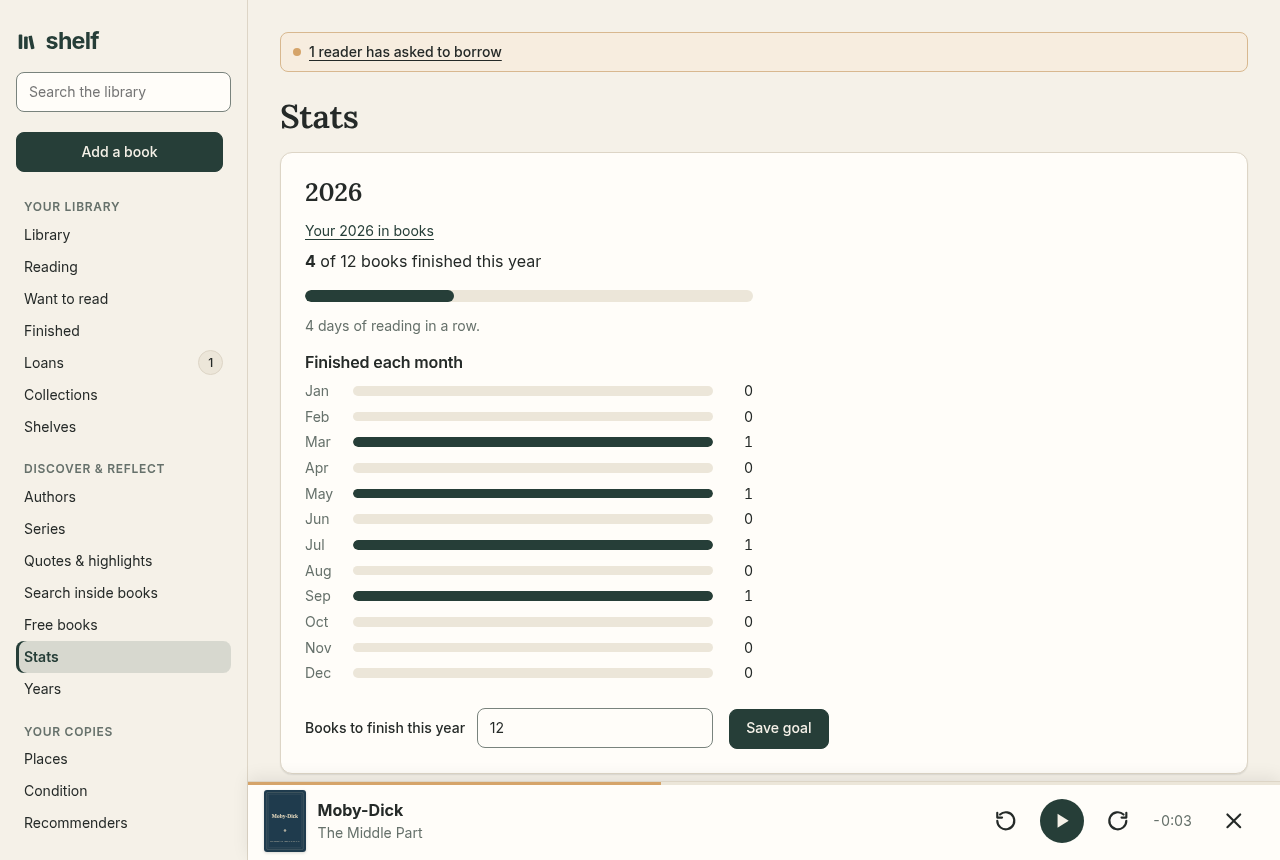
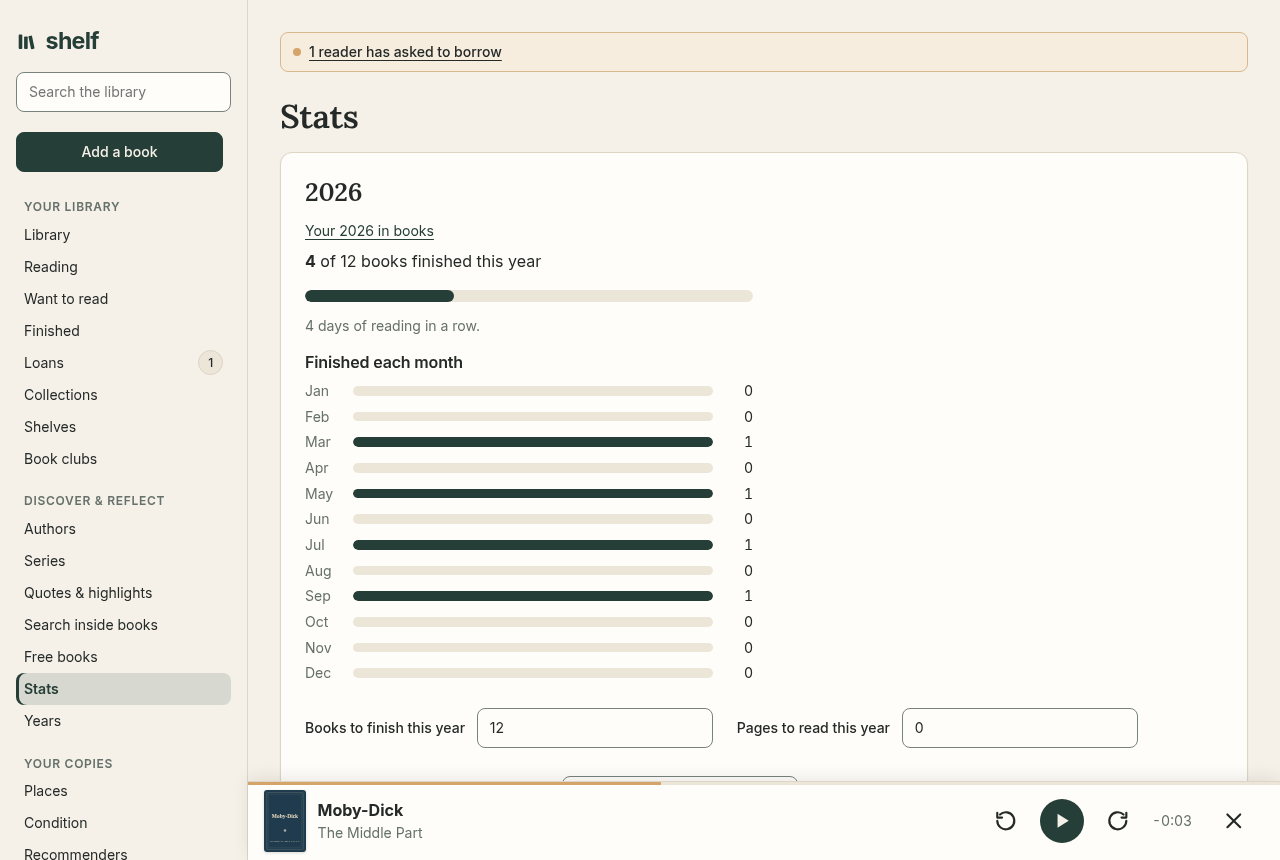
Ask the chapter for its page once the reader listens; and bring the README's features and screenshots up to date.

Changed region(s): [[0.0, 0.7256, 0.1875, 1.0], [0.0, 0.514, 0.125, 0.6953], [0.4375, 0.8163, 0.6875, 0.907]]

diff --git a/src/Shelf.Api/wwwroot/reader.js b/src/Shelf.Api/wwwroot/reader.js
@@ -36,6 +36,7 @@ export function listen(dotNet) {
   };
 
   window.addEventListener("message", handler);
+  document.querySelector("iframe.reader-frame")?.contentWindow?.postMessage({ source: "shelf-ask" }, "*");
   if (!keys) {
     // With the focus outside the chapter, the arrow keys still turn its pages.
     keys = (event) => {

diff --git a/src/Shelf.Api/Books/ReaderMarks.cs b/src/Shelf.Api/Books/ReaderMarks.cs
@@ -184,7 +184,10 @@ public static class ReaderMarks
               turn((event.deltaY || event.deltaX) > 0 ? 1 : -1);
             }, { passive: false });
             window.addEventListener("message", (event) => {
-              if (event.source === parent && event.data && event.data.source === "shelf-go") turn(event.data.step);
+              if (event.source !== parent || !event.data) return;
+              if (event.data.source === "shelf-go") turn(event.data.step);
+              // The page around may start listening after this page first said where it was; it asks again.
+              if (event.data.source === "shelf-ask") show(page);
             });
           }
           // Any touch, key, or wheel inside the chapter tells the page someone is reading.

diff --git a/README.md b/README.md
@@ -42,14 +42,15 @@ What it does not have, yet, is phone apps: on a phone it is the website, added t
 
 ## What it does
 
-- **[A real catalog](https://doodersrage.github.io/shelf/library.html):** series, editions, translators, places, condition, ratings, reviews, and tags. Fill it from an ISBN, typed or scanned with a phone's camera. Saved searches, new books in your series, and reading lists shared by link.
-- **[Reading](https://doodersrage.github.io/shelf/reading.html):** EPUBs, PDFs, comics, and Kindle files in the browser, with highlights, notes, read aloud, search inside every book, OCR for scanned PDFs, and offline reading.
+- **[A real catalog](https://doodersrage.github.io/shelf/library.html):** series, editions, translators, narrators, places, condition, ratings, reviews, and tags. Fill it from an ISBN, typed, scanned with a phone's camera, or shared from another app. Saved searches, hand-made collections, reading lists shared by link, new books in your series, and duplicates merged in a click.
+- **[Reading](https://doodersrage.github.io/shelf/reading.html):** EPUBs, PDFs, comics, and Kindle files in the browser, scrolled or turned page by page, with highlights, notes, a dictionary, read aloud, search inside every book, OCR for scanned PDFs, and offline reading.
 - **[Audiobooks](https://doodersrage.github.io/shelf/audiobooks.html):** one file or a folder of tracks played as one book, with chapters, bookmarks, speeds from 0.5× to 3×, a sleep timer, lock-screen controls, and a mini player that keeps going while you browse.
-- **[Readers and lending](https://doodersrage.github.io/shelf/lending.html):** a shelf for each reader, loans with due dates, open shelves to ask to borrow from, and email reminders.
+- **[Readers and lending](https://doodersrage.github.io/shelf/lending.html):** a shelf for each reader, loans with due dates, open shelves to ask to borrow from, book clubs, and email reminders.
 - **[Bringing books in](https://doodersrage.github.io/shelf/adding.html):** files, an import folder, Calibre, Audiobookshelf, Goodreads, StoryGraph, and Project Gutenberg and LibriVox.
-- **[Devices](https://doodersrage.github.io/shelf/devices.html):** KOReader downloads from Shelf's catalog, keeps its place in step, and brings its highlights across; Kindles get books by email, and two shelves trade files.
+- **[Devices and services](https://doodersrage.github.io/shelf/devices.html):** Kobo e-readers sync with Shelf as with their own store; KOReader downloads from its catalog and keeps its place in step; Kindles get books by email and their highlights come across; highlights go to Readwise and reading status to Hardcover.
 - **[Security](https://doodersrage.github.io/shelf/security.html):** passkeys, two-step sign-in, single sign-on through OpenID Connect, an activity log, and [API tokens](https://doodersrage.github.io/shelf/api.html#api-tokens) for scripts and Home Assistant.
 - **[Backups](https://doodersrage.github.io/shelf/backups.html):** nightly snapshots, copies to another folder or S3-compatible storage, and a restore drill in the tests.
+- **Your year:** goals for books, pages, and hours, time spent reading and listening, and a review of each year in books.
 - **In four languages:** English, Spanish, French, and German, chosen by each reader. The translations were made by machine and want a native speaker's eye; [docs/translating.md](docs/translating.md) shows how to help.
 
 ## Install
